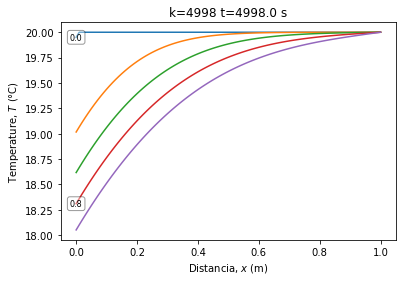
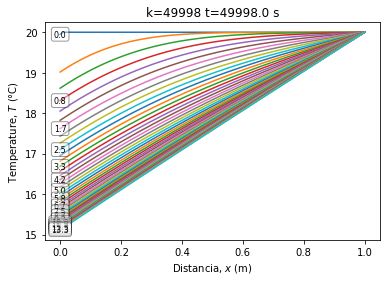
Add files via upload

diff --git a/p3e3.py b/p3e3.py
@@ -8,7 +8,7 @@ x=linspace(0,L,n+1)
 
 # Arreglo con la solución 
 dt=1.
-Nt=5000
+Nt=50000
 tt=arange(0,Nt,dt)
 u_k=zeros((n+1))
 u_km1=zeros((n+1))
